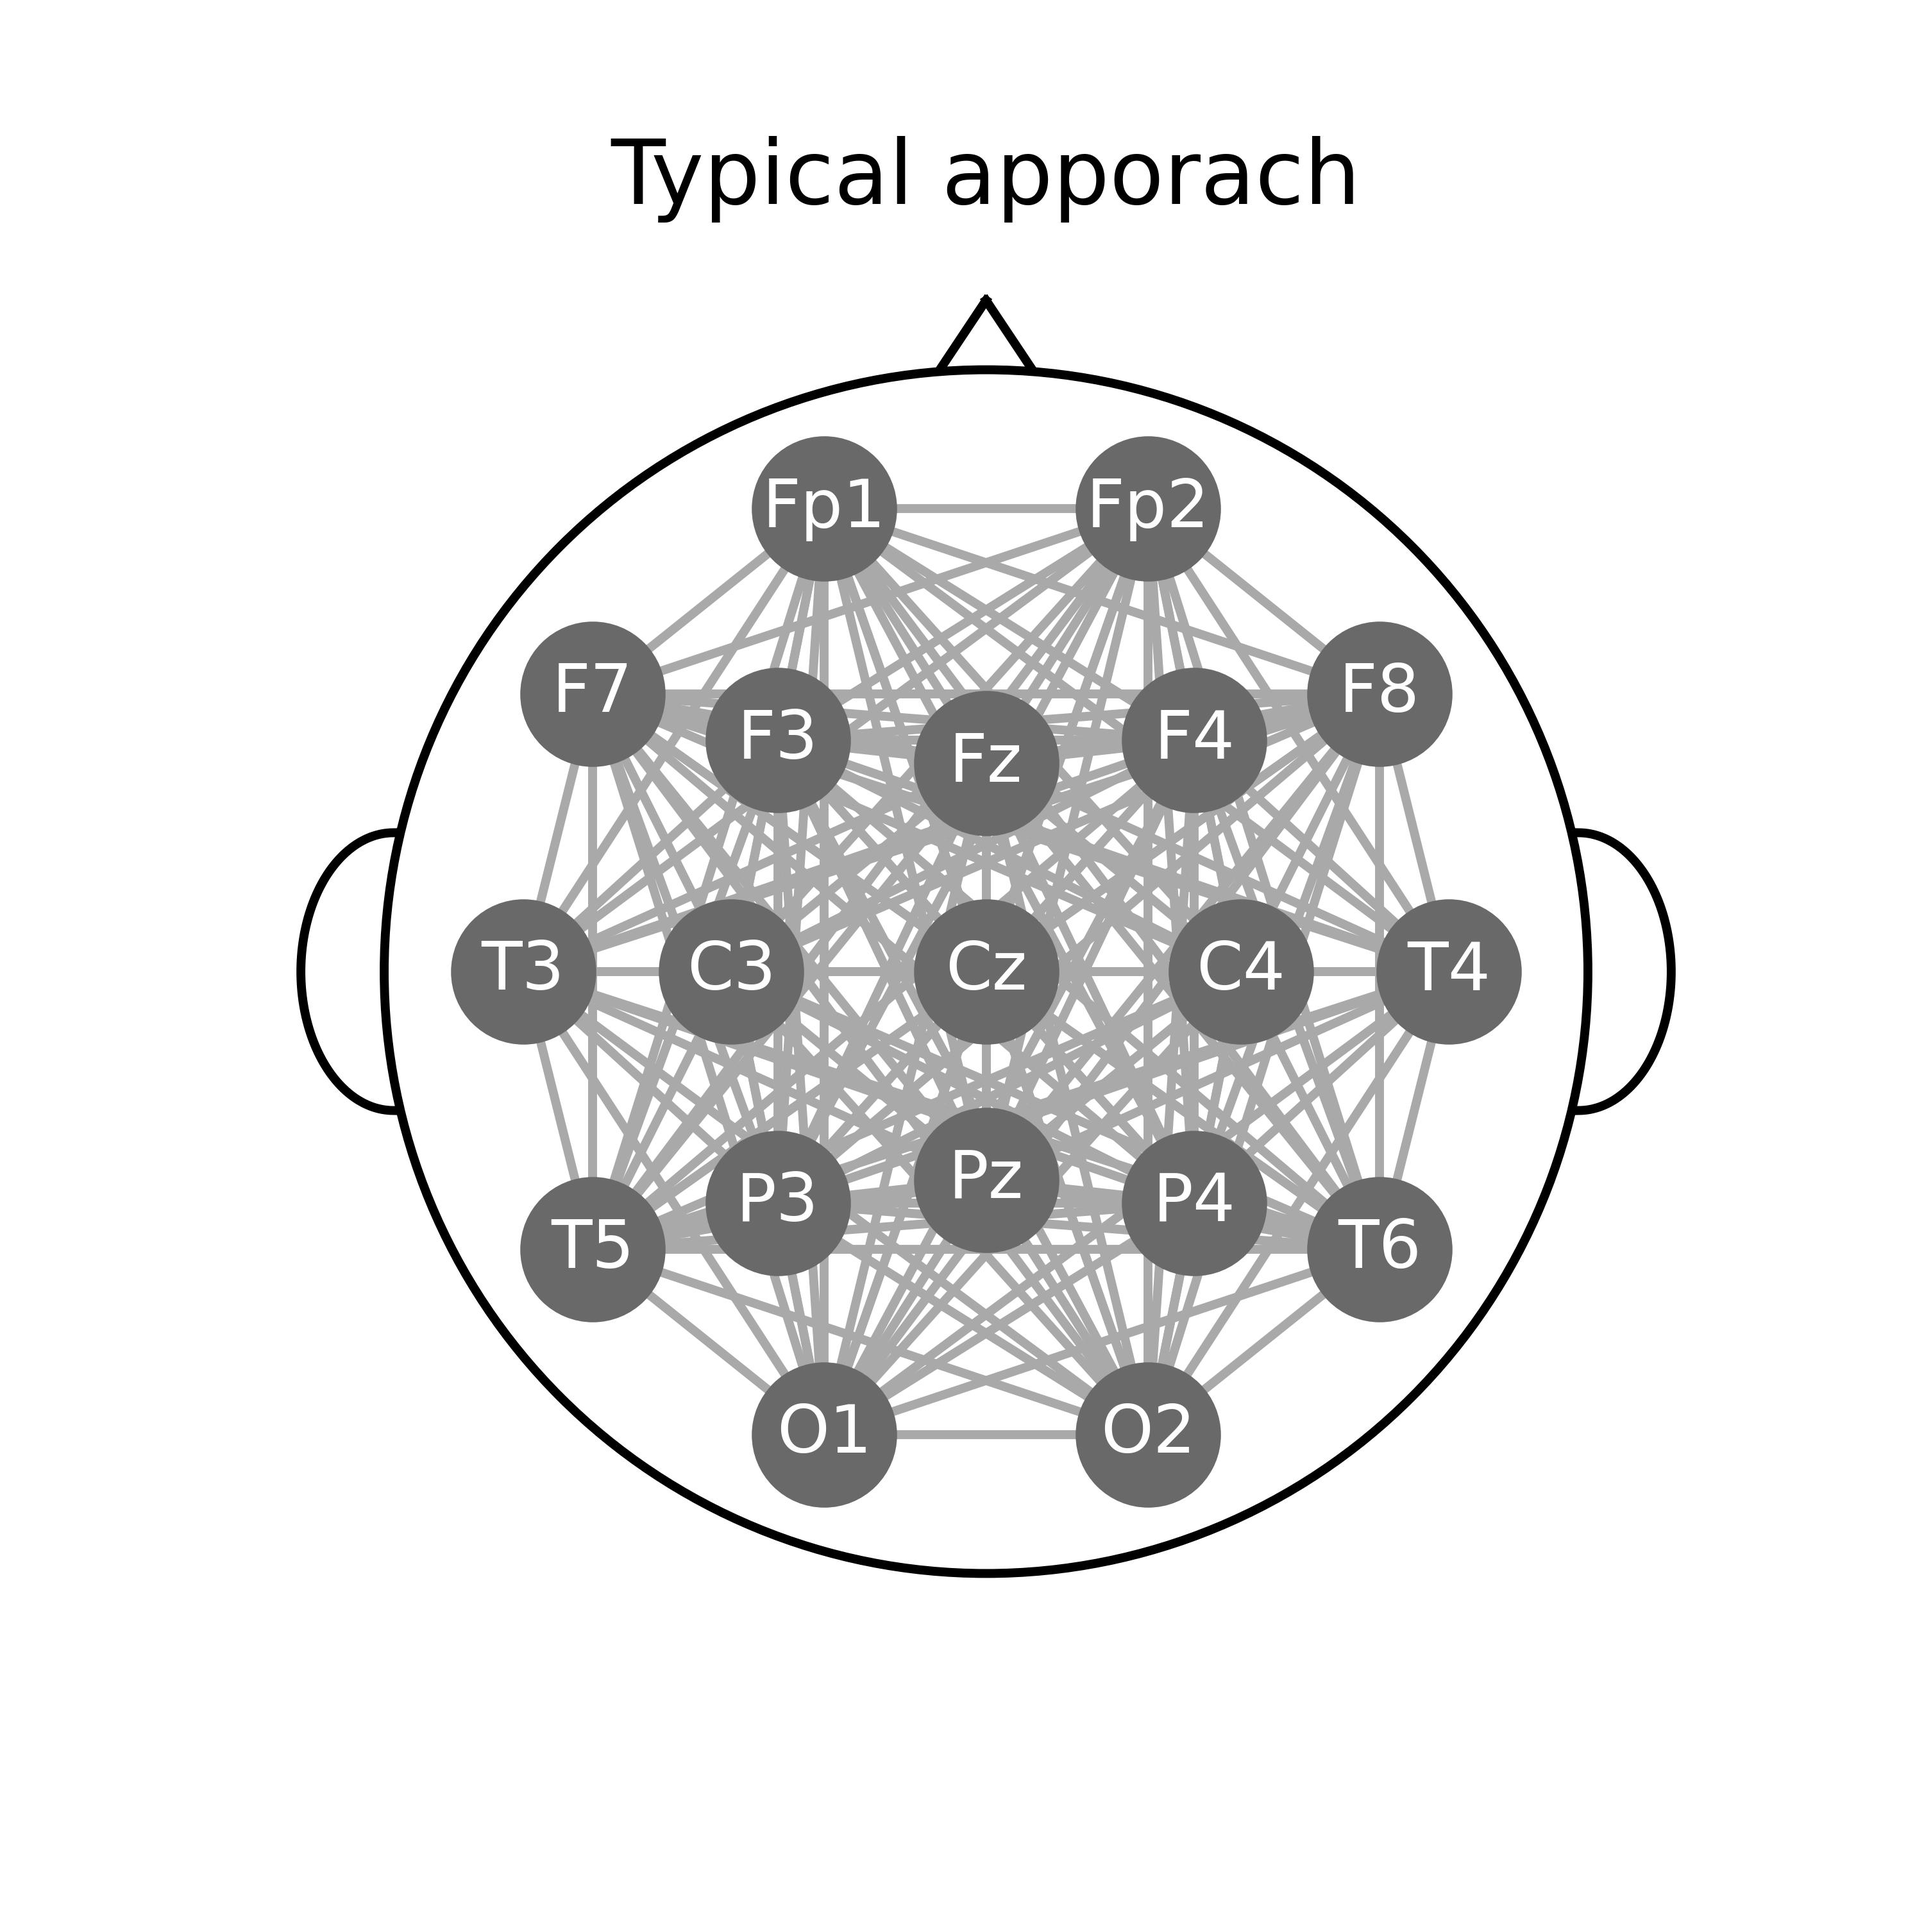
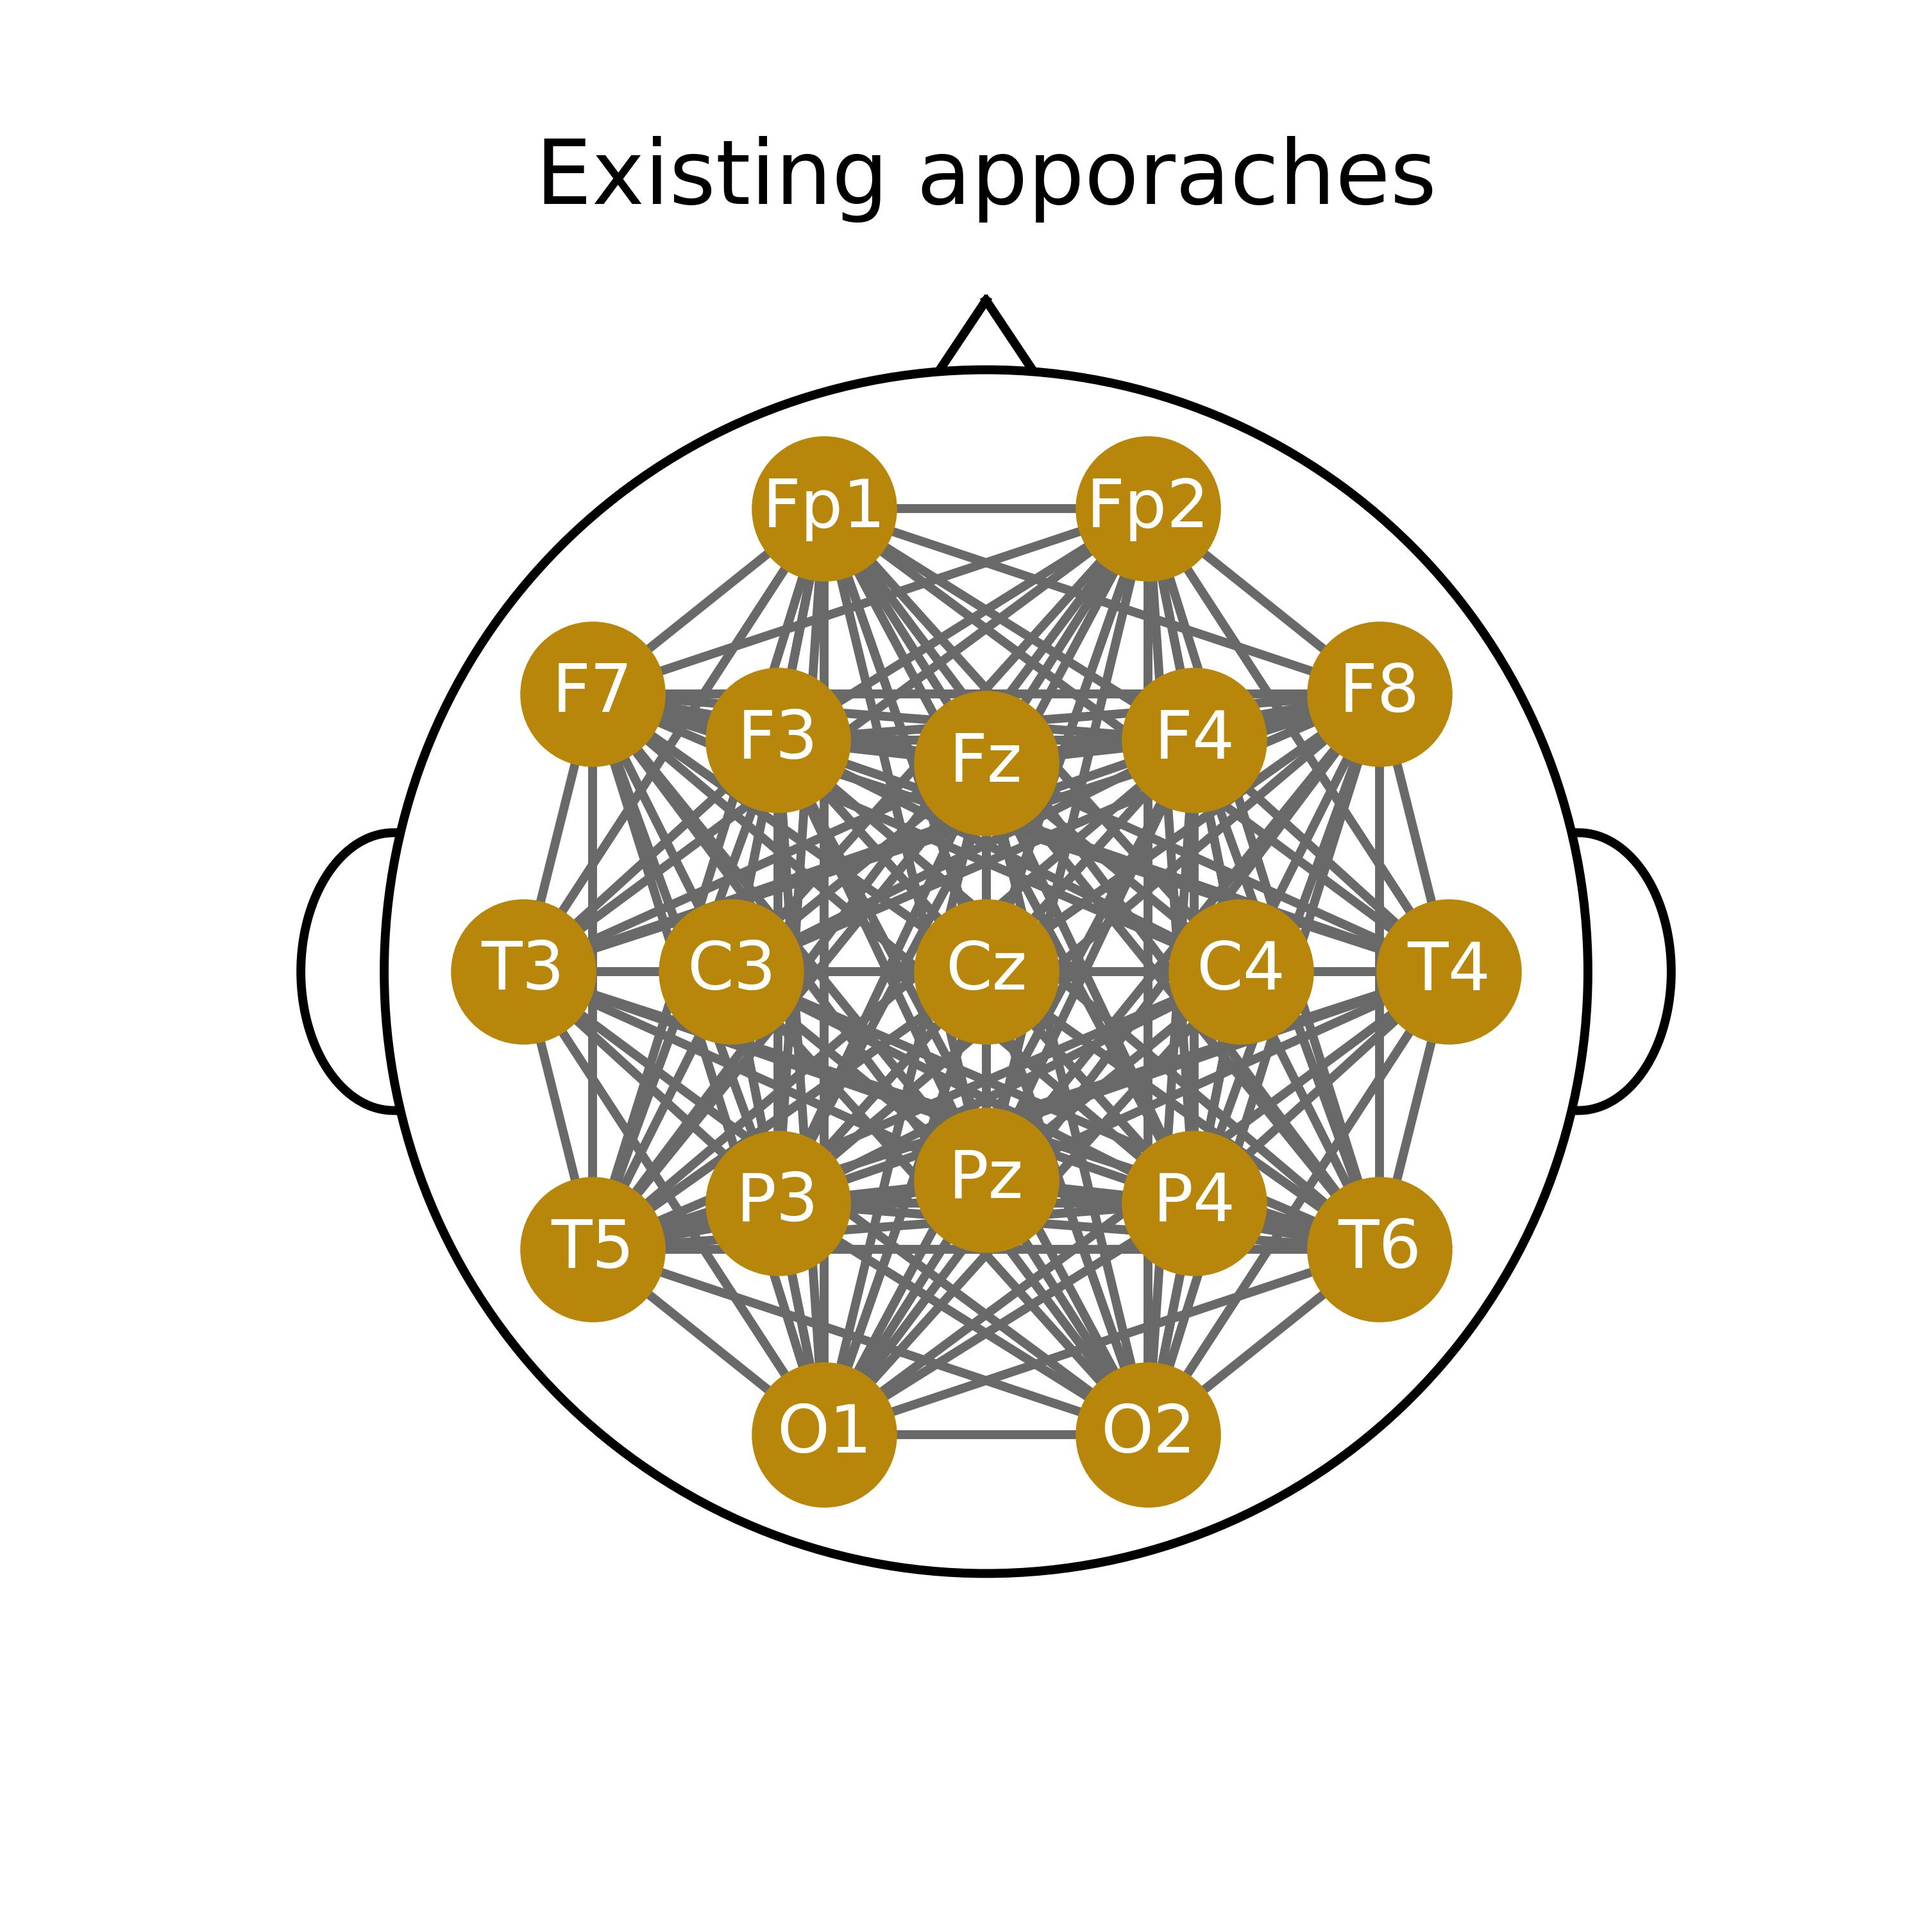
[Update] figures

Changed region(s): [[0.217, 0.217, 0.806, 0.806], [0.279, 0.062, 0.744, 0.124]]

diff --git a/tests/topomap_graph2.py b/tests/topomap_graph2.py
@@ -54,6 +54,18 @@ channels = [
     'O2',
 ]
 
+# Plot
+fig, ax = plt.subplots(figsize=(6, 6))
+
+edges = list(combinations(channels, 2))
+
+# 엣지 그리기
+for ch1, ch2 in edges:
+    print(ch1, ch2)
+    x1, y1 = channel_pos[ch1]
+    x2, y2 = channel_pos[ch2]
+    ax.plot([x1, x2], [y1, y2], 'darkgrey', linewidth=2, zorder=2)
+
 channels_li = []
 channels_li.append(channels[:7])
 channels_li.append(channels[14:17])
@@ -66,9 +78,6 @@ for channels in channels_li:
     edges = list(combinations(channels, 2))
     edges_li.append(edges)
 
-# Plot
-fig, ax = plt.subplots(figsize=(6, 6))
-
 # 채널 점과 값 그리기
 colors_li = ['firebrick', 'chocolate', 'green', 'steelblue', 'slateblue']
 for idx, channels in enumerate(channels_li):
@@ -78,7 +87,7 @@ for idx, channels in enumerate(channels_li):
         ax.text(x, y, ch, fontsize=15, ha='center', va='center', zorder=4, color='white')
 
 # 엣지 그리기
-colors_li = ['lightcoral', 'lightsalmon', 'lightgreen', 'cornflowerblue', 'mediumpurple']
+colors_li = ['lightcoral', 'orange', 'limegreen', 'cornflowerblue', 'mediumpurple']
 for idx, edges in enumerate(edges_li, start=0):
     for ch1, ch2 in edges:
         x1, y1 = channel_pos[ch1]
@@ -119,4 +128,3 @@ ax.set_ylim(-LIMIT, LIMIT)
 ax.axis('off')
 plt.title('Ours', size=20)
 plt.savefig('./assets/tomomap_2.jpg', dpi=500)
-plt.show()

diff --git a/tests/topomap_graph.py b/tests/topomap_graph.py
@@ -77,7 +77,7 @@ fig, ax = plt.subplots(figsize=(6, 6))
 # 채널 점과 값 그리기
 for ch, (x, y) in channel_pos.items():
     value = channel_values.get(ch, 0.5)  # default 0.5 if missing
-    ax.scatter(x, y, s=1000, zorder=3, c='dimgray')
+    ax.scatter(x, y, s=1000, zorder=3, c='darkgoldenrod')
     ax.text(x, y, ch, fontsize=15, ha='center', va='center', zorder=4, color='white')
 
 # 엣지 그리기
@@ -85,7 +85,7 @@ for ch1, ch2 in edges:
     print(ch1, ch2)
     x1, y1 = channel_pos[ch1]
     x2, y2 = channel_pos[ch2]
-    ax.plot([x1, x2], [y1, y2], 'darkgrey', linewidth=2, zorder=2)
+    ax.plot([x1, x2], [y1, y2], 'dimgray', linewidth=2, zorder=2)
 
 # 배경 원 그리기 (두피)
 circle = plt.Circle((0, 0), 1.3, color='black', fill=False, linewidth=2, zorder=1)
@@ -119,6 +119,5 @@ LIMIT = 1.6
 ax.set_xlim(-LIMIT, LIMIT)
 ax.set_ylim(-LIMIT, LIMIT)
 ax.axis('off')
-plt.title('Typical apporach', size=20)
+plt.title('Existing apporaches', size=20)
 plt.savefig('./assets/tomomap_1.jpg', dpi=500)
-plt.show()
